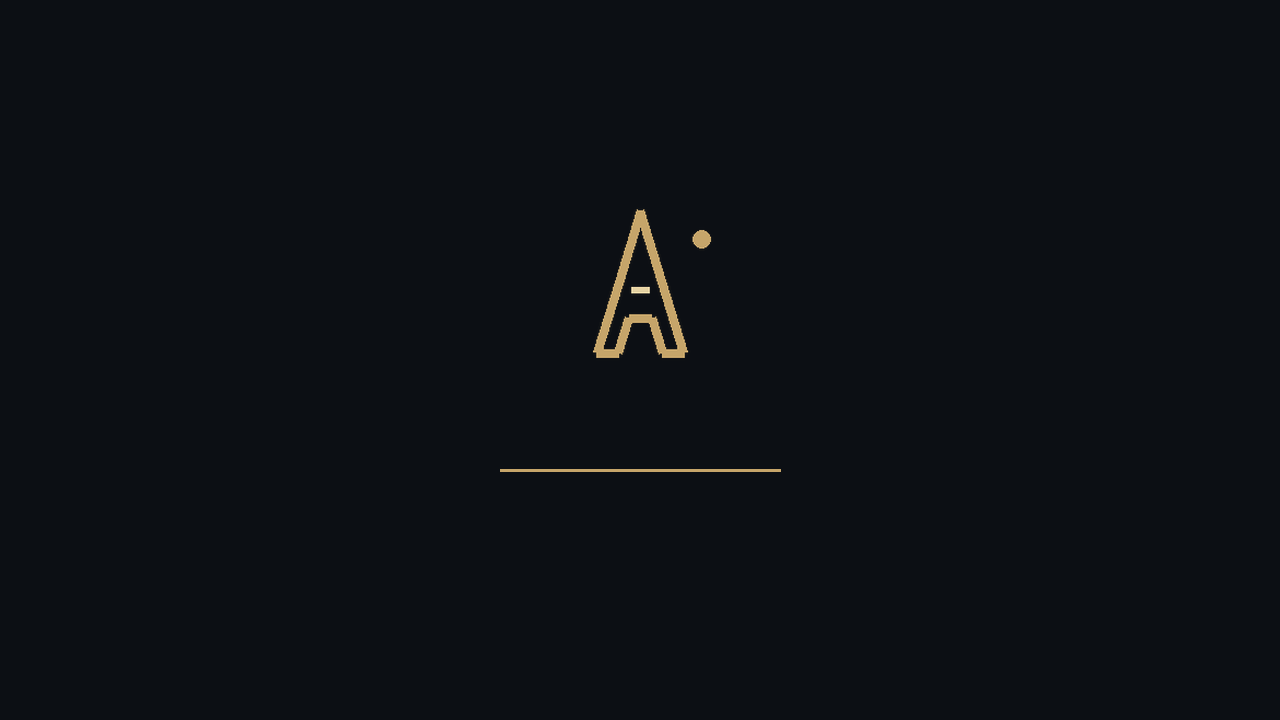
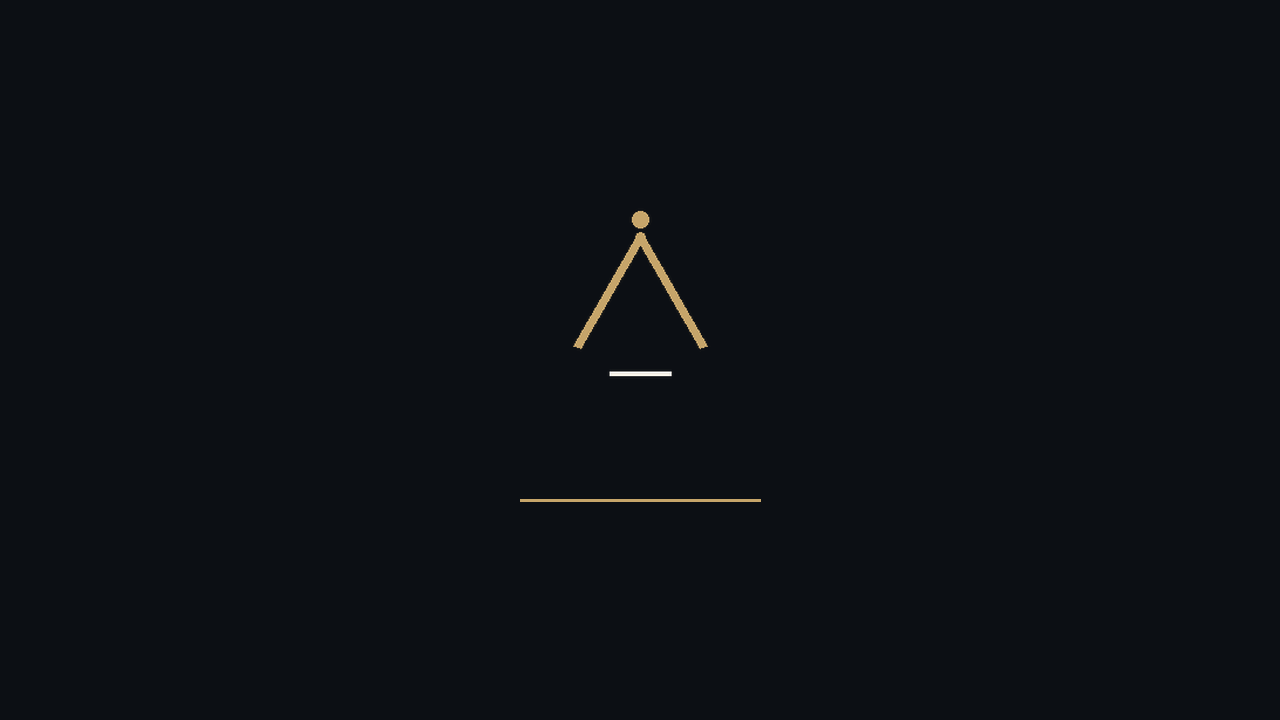
Redraw the boot mark as a V and tighten the 0.2.0 apps.
Plymouth now draws an open champagne V. Marketplace wraps detail text and only offers Update when the catalog is newer. The assistant answer is a card with a copyable command. The ISO build creates the vital-assistant package, which the v0.2.0 image skipped because that deb is not stored in git.

Changed region(s): [[0.4375, 0.3056, 0.5625, 0.55], [0.4062, 0.6417, 0.5938, 0.7028]]

diff --git a/branding/plymouth/render_frames.py b/branding/plymouth/render_frames.py
@@ -1,5 +1,5 @@
 #!/usr/bin/env python3
-"""Draw the Nocturne boot mark as it appears, one stroke at a time."""
+"""Draw the Nocturne boot mark: an open champagne V, one stroke at a time."""
 
 from __future__ import annotations
 
@@ -10,38 +10,56 @@ from PIL import Image, ImageDraw
 OUT = Path(__file__).resolve().parent
 SIZE = 256
 CHAMPAGNE = (198, 165, 106, 255)
-IVORY = (230, 211, 164, 255)
-STEPS = (
-    ((128, 46), (108, 112)),
-    ((108, 112), (88, 176)),
-    ((88, 176), (108, 176)),
-    ((108, 176), (118, 144)),
-    ((118, 144), (138, 144)),
-    ((138, 144), (148, 176)),
-    ((148, 176), (168, 176)),
-    ((168, 176), (128, 46)),
-)
+IVORY = (246, 241, 231, 255)
+WIDTH = 7
+
+# The same proportions as branding/logo/vital-symbol.svg, without the ring.
+# The baseline sits under the feet so the mark cannot be read as an A.
+APEX = (128, 74)
+LEFT = (74, 168)
+RIGHT = (182, 168)
+BASE_A = (102, 190)
+BASE_B = (154, 190)
+
+
+def _lerp(start: tuple[int, int], end: tuple[int, int], amount: float) -> tuple[int, int]:
+    return (
+        int(start[0] + (end[0] - start[0]) * amount),
+        int(start[1] + (end[1] - start[1]) * amount),
+    )
+
+
+def _stroke(draw: ImageDraw.ImageDraw, start: tuple[int, int], end: tuple[int, int], amount: float) -> None:
+    if amount <= 0:
+        return
+    draw.line((*start, *_lerp(start, end, min(amount, 1.0))), fill=CHAMPAGNE, width=WIDTH)
 
 
 def frame(count: int) -> Image.Image:
+    """Eight cumulative frames. 1–3 grow the left arm, 4–6 the right, 7 the baseline, 8 the dot."""
     image = Image.new("RGBA", (SIZE, SIZE), (0, 0, 0, 0))
     draw = ImageDraw.Draw(image)
-    for start, end in STEPS[:count]:
-        draw.line((*start, *end), fill=CHAMPAGNE, width=8)
-    if count >= len(STEPS):
-        draw.line((120, 118, 136, 118), fill=IVORY, width=6)
-        draw.ellipse((176, 64, 192, 80), fill=CHAMPAGNE)
+    left = min(max(count, 0) / 3, 1)
+    right = min(max(count - 3, 0) / 3, 1)
+    _stroke(draw, APEX, LEFT, left)
+    _stroke(draw, APEX, RIGHT, right)
+    if count >= 1:
+        draw.ellipse((APEX[0] - 4, APEX[1] - 4, APEX[0] + 4, APEX[1] + 4), fill=CHAMPAGNE)
+    if count >= 7:
+        draw.line((*BASE_A, *BASE_B), fill=IVORY, width=4)
+    if count >= 8:
+        draw.ellipse((APEX[0] - 7, APEX[1] - 22, APEX[0] + 7, APEX[1] - 8), fill=CHAMPAGNE)
     return image
 
 
 def main() -> None:
-    for index in range(1, len(STEPS) + 1):
+    for index in range(1, 9):
         frame(index).save(OUT / f"frame-{index:02d}.png")
     poster = Image.new("RGBA", (1280, 720), (12, 15, 20, 255))
-    mark = frame(len(STEPS)).resize((280, 280), Image.Resampling.LANCZOS)
-    poster.alpha_composite(mark, (500, 160))
+    mark = frame(8).resize((300, 300), Image.Resampling.LANCZOS)
+    poster.alpha_composite(mark, (490, 150))
     draw = ImageDraw.Draw(poster)
-    draw.line((500, 470, 780, 470), fill=CHAMPAGNE, width=3)
+    draw.line((520, 500, 760, 500), fill=CHAMPAGNE, width=3)
     poster.convert("RGB").save(OUT / "boot-frame.png")
 
 

diff --git a/marketplace/python/vital_catalog.py b/marketplace/python/vital_catalog.py
@@ -22,6 +22,25 @@ FLATPAK_RE = re.compile(r"^[A-Za-z_][A-Za-z0-9_-]*(\.[A-Za-z_][A-Za-z0-9_-]*)+$"
 METHODS = {"apt", "flatpak", "deb", "script"}
 
 
+def version_is_newer(catalog_version: str, installed_version: str) -> bool:
+    """True when the catalog version is a newer dotted release than the installed one."""
+
+    def parts(text: str) -> tuple[int, ...]:
+        body = text.split(":", 1)[-1].split("-", 1)[0]
+        numbers: list[int] = []
+        for piece in body.split("."):
+            digits = ""
+            for char in piece:
+                if char.isdigit():
+                    digits += char
+                else:
+                    break
+            numbers.append(int(digits) if digits else 0)
+        return tuple(numbers)
+
+    return parts(catalog_version) > parts(installed_version)
+
+
 def canonical_bytes(value: object) -> bytes:
     return json.dumps(value, sort_keys=True, separators=(",", ":"), ensure_ascii=False).encode("utf-8")
 

diff --git a/marketplace/python/tests/test_catalog.py b/marketplace/python/tests/test_catalog.py
@@ -20,7 +20,14 @@ from vital_catalog import (  # noqa: E402
     sign_bytes,
     validate_catalog,
     verify_catalog_signature,
+    version_is_newer,
 )
+
+
+def test_version_is_newer_compares_dotted_releases() -> None:
+    assert version_is_newer("0.2.1", "0.2.0")
+    assert not version_is_newer("0.2.0", "0.2.0")
+    assert not version_is_newer("0.1.9", "0.2.0")
 
 
 def test_bundled_catalog_validates() -> None:

diff --git a/README.md b/README.md
@@ -13,7 +13,7 @@ The codename for this look is **Nocturne**. Color, type, and the mark are docume
 - `/etc/os-release` and `/etc/lsb-release` identify the system as Vital OS 0.2.0. The version comes from the `VERSION` file. Login banners, the message of the day, the GRUB label, and the installer slideshow use that same string. `ID_LIKE` stays `ubuntu debian` so Ubuntu-oriented packages still match. `VERSION_CODENAME` stays `noble` for the same reason. Settings → About reads `PRETTY_NAME`.
 - Vital Welcome, a GTK4 / libadwaita first-run app (welcome, appearance, curated apps, privacy and updates). It autostarts once per user, then writes `~/.config/vitalos/welcome-completed`. The title is Vital OS and its version. “based on Ubuntu 24.04 LTS” is a secondary line.
 - Vital Marketplace, a GTK4 catalog browser in the app grid and on the Welcome apps page. It installs through a polkit helper, checks SHA-256 before running a downloaded package or script, and falls back to a bundled catalog. Installed entries show Installed, Update, and Remove. The publishing service is documented in [marketplace/README.md](marketplace/README.md).
-- Vital Assistant (`vital-assistant`), installed by default and removable from Marketplace. `vital ask "question"` prints a command and a short explanation and runs it only after you confirm. `ask` and `??` are the short forms. Super+Shift+A opens the window (Super+Space stays the keyboard-layout switch, and Super+A stays the app grid). The first provider is xAI Grok with your own API key from console.x.ai. OpenAI-compatible endpoints and local Ollama are also supported. Keys stay in the keyring. A hint after a failed command is off until `shell_hook=1`. Details are in [PRIVACY.md](PRIVACY.md).
+- Vital Assistant (`vital-assistant`), installed by default and removable from Marketplace. The ISO build creates its package (the `.deb` is not stored in git) and installs it into the image. `vital ask "question"` prints a command and a short explanation and runs it only after you confirm. `ask` and `??` are the short forms. Super+Shift+A opens the window (Super+Space stays the keyboard-layout switch, and Super+A stays the app grid). The first provider is xAI Grok with your own API key from console.x.ai. OpenAI-compatible endpoints and local Ollama are also supported. Keys stay in the keyring. A hint after a failed command is off until `shell_hook=1`. Details are in [PRIVACY.md](PRIVACY.md).
 - Firefox from Mozilla's apt archive (not the Ubuntu transitional snap), Files, Console, Text Editor, Loupe, Evince, Celluloid, LibreOffice Writer and Calc, GNOME Software, and Flatpak with Flathub configured.
 - The package set is [config/packages.desktop.list](config/packages.desktop.list). Live-only packages are [config/packages.live.list](config/packages.live.list) and Calamares removes them on install.
 
